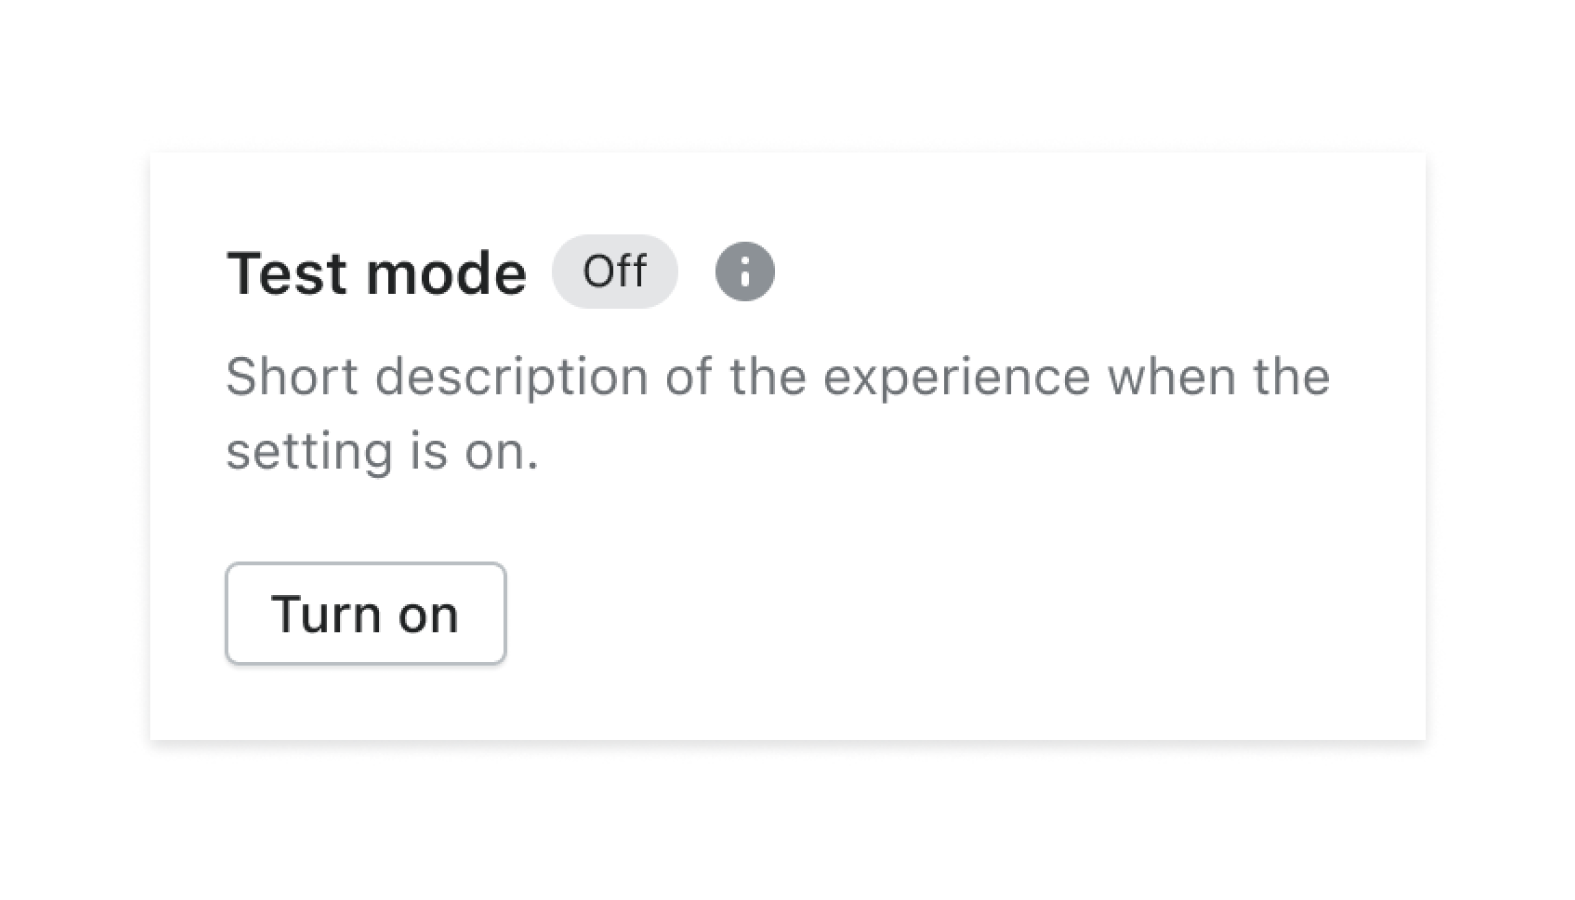
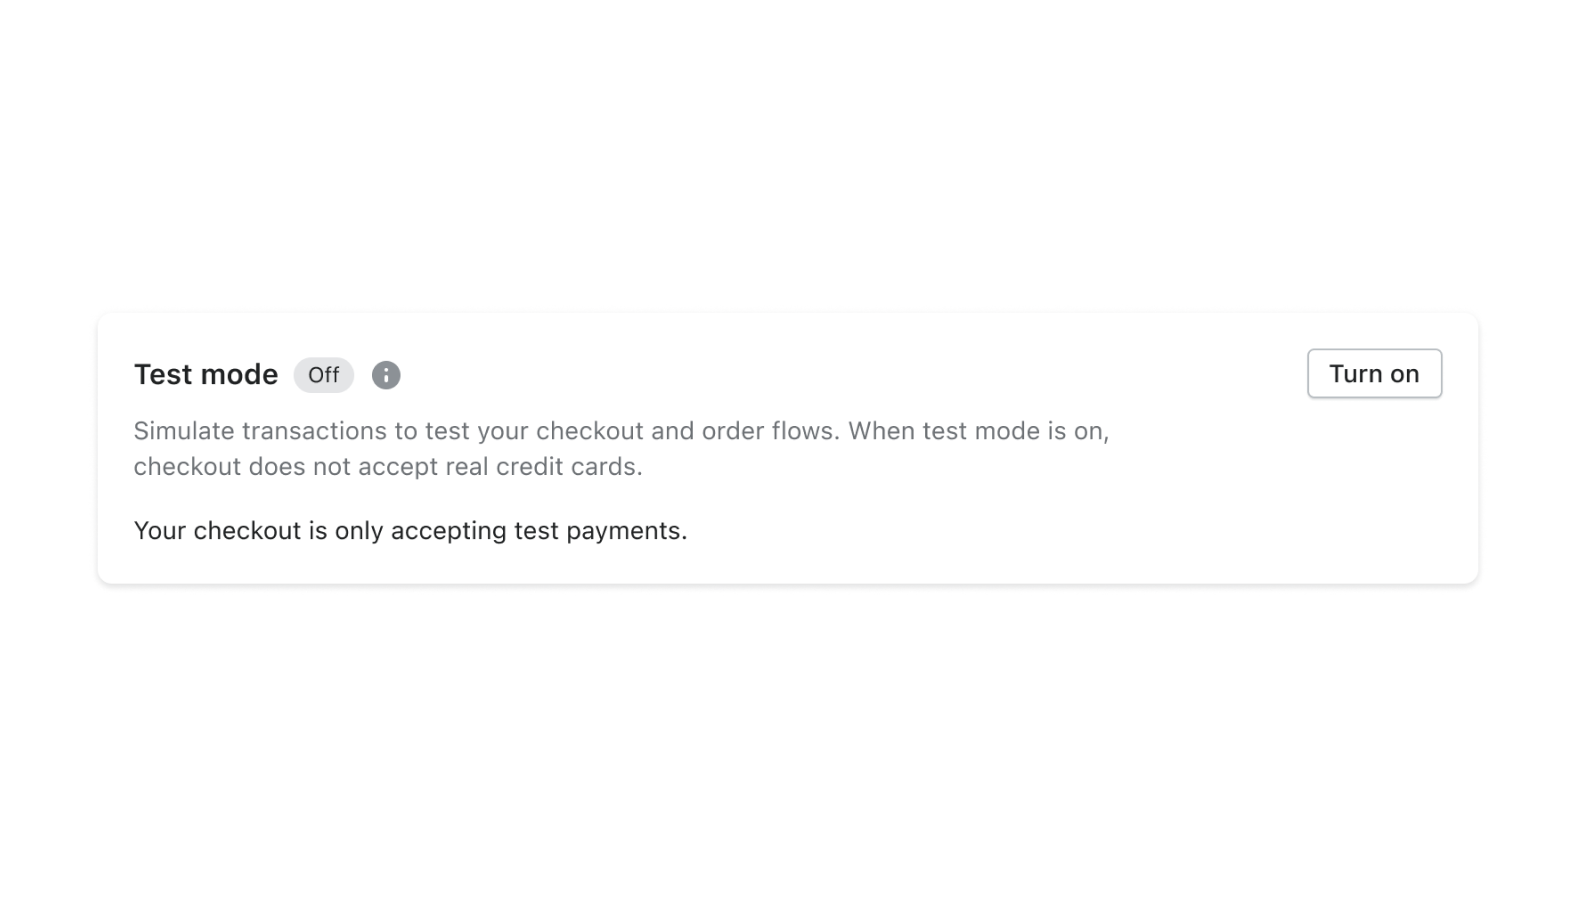
[SettingToggle] Update selection and input component list card image (#8741)
<img width="885" alt="Screenshot 2023-03-23 at 7 02 27 PM"
src="https://user-images.githubusercontent.com/18447883/227383494-d286db3c-1c13-4394-afef-b21108bf8745.png">
Updates the SettingToggle card image on the Selection and Input
component category page to have realistic content that aligns with the
component example.

Changed region(s): [[0.0933, 0.3733, 0.9022, 0.5289], [0.0933, 0.56, 0.4356, 0.7467], [0.1244, 0.2489, 0.4978, 0.3422]]

diff --git a/.changeset/chilled-cycles-smash.md b/.changeset/chilled-cycles-smash.md
@@ -1,0 +1,5 @@
+---
+'polaris.shopify.com': patch
+---
+
+Updated the image set on the `SettingToggle` card of the Selection and input component category page
